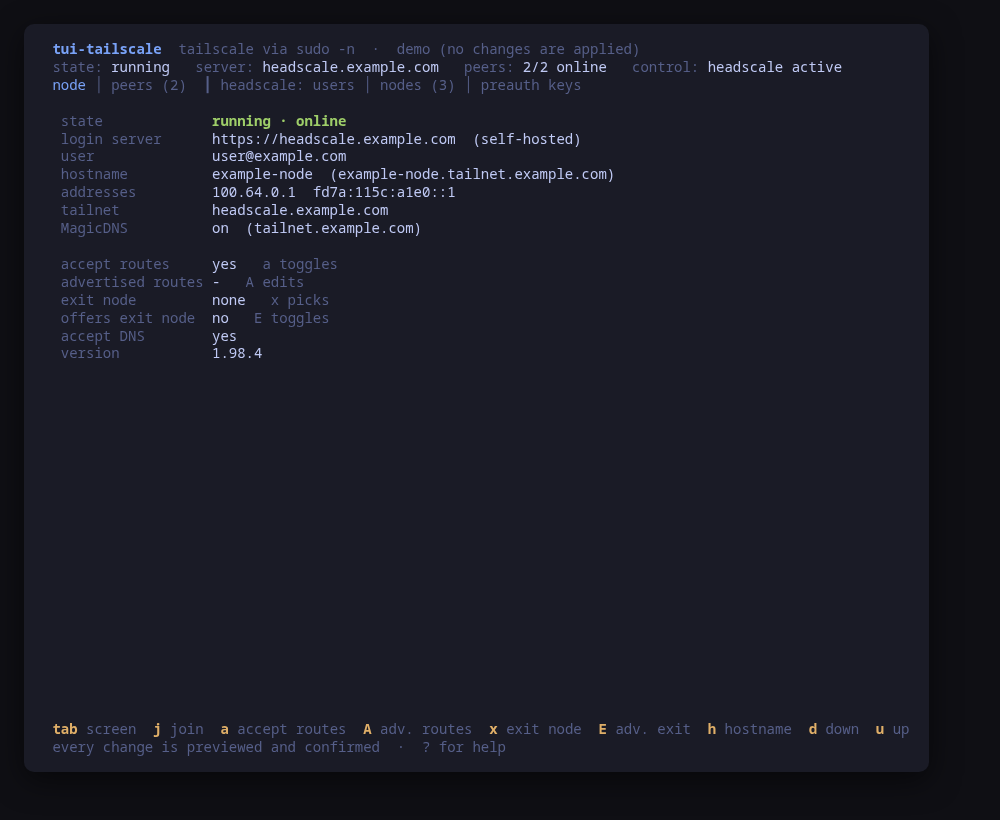
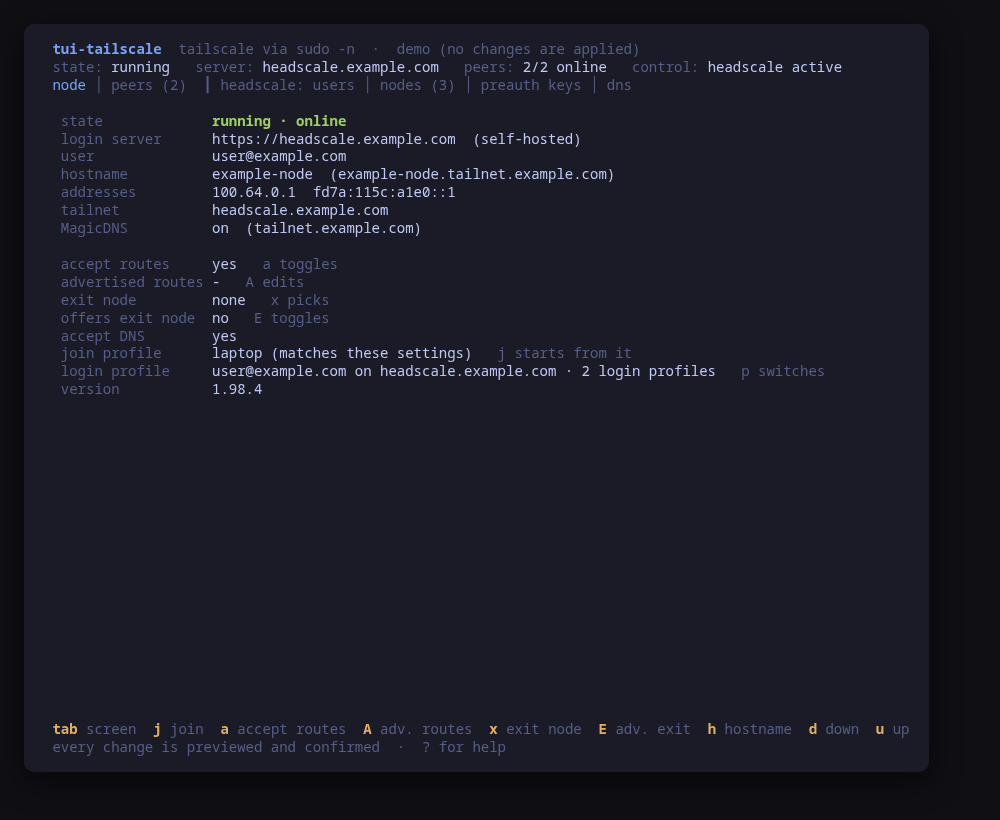
Screenshots, manifest and smoke checks for 0.2.0
Re-render the README frames from --demo with the dns screen, the join
profile picker and the private-CA step added, and the join and login key
sequences updated for the profile picker. tool.json names the new keys and
screens within the schema limits, and the smoke test checks the new --check
facts (join profile names, dns counts, the waiting registration counted but
never named, and the firewall's ports).

Claude-Session: https://claude.ai/code/session_01MbCfX3T8khyd9hsrN5kMo3

Changed region(s): [[0.217, 0.4268, 0.713, 0.4878], [0.062, 0.4268, 0.186, 0.4878], [0.744, 0.4268, 0.806, 0.4573]]

diff --git a/README.md b/README.md
@@ -24,16 +24,16 @@ It manages as well as reads. Every change is shown as the exact command line fir
 tui-tailscale --demo
 ```
 
-`--demo` runs every screen against one sample tailnet, both ends of it: a fake node joined to `https://headscale.example.com`, with two peers — `exit-gateway`, which offers itself as an exit node, and `office-router`, which serves a subnet — and the fake control plane that serves them, where the node is registered under `user@example.com` and `office-router` advertises a second subnet nobody approved yet, so `r` has something to approve. Its unit runs but is disabled, the way a fresh install is usually left, so the readiness line and the end of `S` and `O` show the enable. Every key works, every command is built and previewed for real, and each confirmed one is applied to the fake — nothing on the host is read or changed.
+`--demo` runs every screen against one sample tailnet, both ends of it: a fake node joined to `https://headscale.example.com`, with two peers — `exit-gateway`, which offers itself as an exit node, and `office-router`, which serves a subnet — and the fake control plane that serves them, where the node is registered under `user@example.com` and `office-router` advertises a second subnet nobody approved yet, so `r` has something to approve; a laptop waits to register, so `R` has one to register; the DNS section carries a split domain and an extra record; two join profiles pre-fill `j`, and a login server under `.internal` (`https://headscale.lab.internal`) walks the private-CA step. Its unit runs but is disabled, the way a fresh install is usually left, so the readiness line and the end of `S` and `O` show the enable. Every key works, every command is built and previewed for real, and each confirmed one is applied to the fake — nothing on the host is read or changed.
 
 ## Screens
 
-`tab` (or `1` to `5`) switches between them. `j` and `h` are actions here, so the selection moves with the arrow keys. The header names both backends with their versions — `tailscale 1.102.4` and `headscale 0.29.3`, or `headscale: not installed` — and the keys belong to the screen they are pressed on: the node's on the node and peers screens, the control plane's on the other three.
+`tab` (or `1` to `6`) switches between them. `j` and `h` are actions here, so the selection moves with the arrow keys. The header names both backends with their versions — `tailscale 1.102.4` and `headscale 0.29.3`, or `headscale: not installed` — and the keys belong to the screen they are pressed on: the node's on the node and peers screens, the control plane's on the other four.
 
 - **node** — the backend state (running, stopped, logged out, waiting for approval), the login server and whether it is self-hosted, the owner, the hostname and MagicDNS name, the tailnet addresses, and the settings: accept routes, advertised routes, the exit node in use, whether this node offers itself as one, accept DNS, the client version and its health warnings. A login waiting for a browser shows its URL here until it completes. When tailscale is not installed, or tailscaled is not running, or refuses this user, the screen says so and what to do.
 - **peers** — the rest of the tailnet: name, owner, tailnet address, online (or when last seen), OS, whether the peer offers an exit node or is the one in use, and the subnets it serves (its primary routes and any allowed prefix beyond its own addresses).
 
-- **users**, **nodes**, **preauth keys** — the control plane on this host, behind a `headscale:` mark in the tab bar so its nodes cannot be read as this node's peers. See [Control plane (headscale)](#control-plane-headscale).
+- **users**, **nodes**, **preauth keys**, **dns** — the control plane on this host, behind a `headscale:` mark in the tab bar so its nodes cannot be read as this node's peers. See [Control plane (headscale)](#control-plane-headscale).
 
 ![The peers screen](docs/screenshots/tui-tailscale-peers.png)
 
@@ -73,6 +73,8 @@ A tailnet with no public DNS name and no Let's Encrypt: headscale on https with 
    | Fedora, RHEL | `install -m 644 <ca> /etc/pki/ca-trust/source/anchors/tui-tailscale-<host>.crt` and `update-ca-trust` |
    | Arch, Omarchy | `trust anchor --store <ca>` |
 
+   ![The CA step of a join](docs/screenshots/tui-tailscale-trust.png)
+
    Each ends with `systemctl restart tailscaled`, because a running daemon keeps the roots it loaded at start. The dialog says what trusting a CA means: every program on the machine that uses the system trust store trusts what it signs. A certificate that is trusted but issued for another name is reported as such, since no CA fixes it.
 
 ## Manage, not view
@@ -102,6 +104,8 @@ When the join advertises routes or an exit node, the same preview turns IP forwa
 A machine that leaves and re-joins its tailnet while things are being set up (a logout to test a fresh join, a re-key, a move to a new control plane) is asked the same six questions every time. A **join profile** is this tool's preset for `j`: those answers under a name. When there are any, `j` opens with a picker (a saved profile, or new questions); picking one pre-fills every step, still editable and still previewed, so the join is confirm-and-go. The profile that matches the node's current settings is the one offered.
 
 After a join with new answers (right away with a pre-auth key, or once a browser login completes), the tool offers to save them: type a name, or leave it empty to skip. The save is a previewed write of the config file, with the lines that change shown as a diff: `/etc/tui-tailscale/config.toml` for root, `~/.config/tui-tailscale/config.toml` for any other user (written as that user; its profiles override the machine-wide ones of the same name). A profile is a `[[profile]]` table with `name`, `login_server`, `hostname`, `accept_routes`, `advertise_routes` and `advertise_exit_node` (see [`examples/config.toml`](examples/config.toml)). It never holds a secret: the pre-auth key is asked for every time and is not part of a profile.
+
+![j with join profiles](docs/screenshots/tui-tailscale-profiles.png)
 
 The node screen names the join profile that matches its settings, and the logout dialog says which one restores them. `--check` lists the profile names only (`joinProfiles`).
 
@@ -313,6 +317,8 @@ Each change goes through the same splice writer as `S` and `O`: the confirm show
 ```
 
 Every edit is proven before it is shown: the edited file is read back, and what headscale would read has to be exactly what the form asked for; a `dns:` section written in a shape the splice cannot edit safely (in flow style, say) is refused rather than rewritten. The checks are headscale's own: `base_domain` is required while MagicDNS is on and must not contain the `server_url` host, a nameserver is an IP address or an `https://` DNS-over-HTTPS URL, a split domain needs at least one nameserver, and a record is `name type address` with A or AAAA only (headscale's own configuration notes that only those reach a Tailscale client, so a CNAME would be written and never answered). A record outside `base_domain` is allowed, with a note. While `extra_records_path` is set, the records come from that file and are not edited here.
+
+![The dns screen](docs/screenshots/tui-tailscale-dns.png)
 
 `--check` reports the section as `dns` in `controlPlane`: the two switches and how many global nameservers, split domains, search domains and records there are, never the names and addresses themselves.
 
